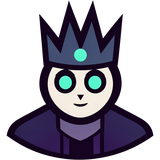
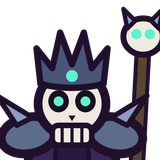
alfa a15a128: Nova: retrato del NecroLord con la cara de la serie (el resto se queda como esta

diff --git a/alfa/demos/karts/index.html b/alfa/demos/karts/index.html
@@ -8,7 +8,7 @@
 <meta name="description" content="Fans of Karts (prototipo jugable): carreras de karts en pixel art de consola portátil con los líderes de Fans of Rumble. Tres pistas, seis pilotos, objetos con mala idea y Microblizz, que ha comprado la carrera.">
 <link rel="icon" type="image/png" href="img/icon-192.png">
 <link rel="apple-touch-icon" href="img/icon-192.png">
-<script src="../../core/js/nucleo.js?v=0.6.0-a58.51187f6"></script>
+<script src="../../core/js/nucleo.js?v=0.6.0-a59.a15a128"></script>
 <script>NUCLEO.estilos('../../core/css/base.css', '../../core/css/menus.css', '../../core/css/menus-tienda.css', '../../core/css/menus-extra.css', 'css/tienda.css', 'css/pvp.css')</script>
 <link rel="stylesheet" href="https://fonts.googleapis.com/css2?family=Baloo+2:wght@600;700;800&family=Luckiest+Guy&display=swap">
 <style>

diff --git a/alfa/games/dark/index.html b/alfa/games/dark/index.html
@@ -12,7 +12,7 @@
 <link rel="stylesheet" href="https://fonts.googleapis.com/css2?family=Baloo+2:wght@600;700;800&family=Luckiest+Guy&family=Press+Start+2P&family=Pixelify+Sans:wght@400;600;700&display=swap">
 <link rel="stylesheet" href="css/dark.css?v=0.2.4">
 <!-- Prototipo: no usa NUCLEO (tiene su propia partida guardada). Carga de core el arte, la música, los efectos y las cifras del Rumble.
-     VERSIÓN para desplegar.py (que la busca así): nucleo.js?v=0.2.5-a58.51187f6' (aquí solo se anota; súbela junto al ?v= de los scripts). -->
+     VERSIÓN para desplegar.py (que la busca así): nucleo.js?v=0.2.5-a59.a15a128' (aquí solo se anota; súbela junto al ?v= de los scripts). -->
 </head>
 <body>
 <canvas id="cv" aria-label="Mazmorra"></canvas>

diff --git a/alfa/games/rumble/index.html b/alfa/games/rumble/index.html
@@ -16,7 +16,7 @@
 <link rel="preconnect" href="https://fonts.gstatic.com" crossorigin>
 <link rel="stylesheet" href="https://fonts.googleapis.com/css2?family=Baloo+2:wght@600;700;800&family=Luckiest+Guy&display=swap">
 <!-- core/js/nucleo.js carga lo común y el juego. LA VERSIÓN SE ESCRIBE SOLO AQUÍ, en su ?v= -->
-<script src="../../core/js/nucleo.js?v=0.9.135-a58.51187f6"></script>
+<script src="../../core/js/nucleo.js?v=0.9.135-a59.a15a128"></script>
 <script>NUCLEO.estilos('../../core/css/menus.css', 'css/estilos-partida.css', 'css/estilos-extra.css', 'css/arena.css', '../../core/css/biblioteca.css', 'css/facciones-y-jefes.css', '../../core/css/clasificacion.css', 'css/frases.css', 'css/mitica.css', 'css/paletas.css')</script>
 
 </head>

diff --git a/alfa/games/rouflage/index.html b/alfa/games/rouflage/index.html
@@ -10,7 +10,7 @@
 <link rel="preconnect" href="https://fonts.googleapis.com">
 <link rel="preconnect" href="https://fonts.gstatic.com" crossorigin>
 <link rel="stylesheet" href="https://fonts.googleapis.com/css2?family=Baloo+2:wght@600;700;800&family=Luckiest+Guy&display=swap">
-<script src="../../core/js/nucleo.js?v=0.2.10-a58.51187f6"></script>
+<script src="../../core/js/nucleo.js?v=0.2.10-a59.a15a128"></script>
 <script>NUCLEO.estilos('../../core/css/base.css', '../../core/css/menus.css', '../../core/css/menus-extra.css')</script>
 <link rel="stylesheet" href="estilo.css?v=0.2.9">
 <link rel="stylesheet" href="estilo-pvp.css?v=0.2.9">

diff --git a/alfa/games/ratkov/index.html b/alfa/games/ratkov/index.html
@@ -13,7 +13,7 @@
 <link rel="preconnect" href="https://fonts.gstatic.com" crossorigin>
 <link rel="stylesheet" href="https://fonts.googleapis.com/css2?family=VT323&family=Russo+One&display=swap">
 <script src="https://cdnjs.cloudflare.com/ajax/libs/three.js/r128/three.min.js"></script>
-<script src="../../core/js/nucleo.js?v=0.2.5-a58.51187f6"></script>
+<script src="../../core/js/nucleo.js?v=0.2.5-a59.a15a128"></script>
 <script>NUCLEO.estilos('../../core/css/base.css', '../../core/css/menus.css')</script>
 <link rel="stylesheet" href="estilo.css?v=0.2.3">
 <link rel="stylesheet" href="estilo-refugio.css?v=0.2.3">

diff --git a/alfa/games/survivors/index.html b/alfa/games/survivors/index.html
@@ -15,7 +15,7 @@
 <link rel="preconnect" href="https://fonts.gstatic.com" crossorigin>
 <link rel="stylesheet" href="https://fonts.googleapis.com/css2?family=Baloo+2:wght@600;700;800&family=Luckiest+Guy&display=swap">
 <!-- core/js/nucleo.js carga lo común y el juego. LA VERSIÓN SE ESCRIBE SOLO AQUÍ, en su ?v= -->
-<script src="../../core/js/nucleo.js?v=0.1.48-a58.51187f6"></script>
+<script src="../../core/js/nucleo.js?v=0.1.48-a59.a15a128"></script>
 <script>NUCLEO.estilos('../../core/css/base.css', '../../core/css/menus.css', 'css/survivors.css', '../../core/css/biblioteca.css')</script>
 </head>
 <body>

diff --git a/alfa/games/td/index.html b/alfa/games/td/index.html
@@ -15,7 +15,7 @@
 <link rel="preconnect" href="https://fonts.gstatic.com" crossorigin>
 <link rel="stylesheet" href="https://fonts.googleapis.com/css2?family=Baloo+2:wght@600;700;800&family=Luckiest+Guy&display=swap">
 <!-- core/js/nucleo.js carga lo común y el juego. LA VERSIÓN SE ESCRIBE SOLO AQUÍ, en su ?v= -->
-<script src="../../core/js/nucleo.js?v=0.13.64-a58.51187f6"></script>
+<script src="../../core/js/nucleo.js?v=0.13.64-a59.a15a128"></script>
 <script>NUCLEO.estilos('../../core/css/base.css', 'css/td.css', '../../core/css/menus.css', '../../core/css/biblioteca.css')</script>
 </head>
 <body>

diff --git a/alfa/games/nova/index.html b/alfa/games/nova/index.html
@@ -15,7 +15,7 @@
 <link rel="preconnect" href="https://fonts.gstatic.com" crossorigin>
 <link rel="stylesheet" href="https://fonts.googleapis.com/css2?family=Baloo+2:wght@600;700;800&family=Luckiest+Guy&display=swap">
 <!-- core/js/nucleo.js carga lo común y el juego. LA VERSIÓN SE ESCRIBE SOLO AQUÍ, en su ?v= -->
-<script src="../../core/js/nucleo.js?v=0.2.0-a58.51187f6"></script>
+<script src="../../core/js/nucleo.js?v=0.2.0-a59.a15a128"></script>
 <script>NUCLEO.estilos('../../core/css/base.css', '../../core/css/menus.css', 'css/nova.css')</script>
 </head>
 <body>

diff --git a/alfa/games/skate/index.html b/alfa/games/skate/index.html
@@ -9,7 +9,7 @@
 <link rel="preconnect" href="https://fonts.googleapis.com">
 <link rel="preconnect" href="https://fonts.gstatic.com" crossorigin>
 <link rel="stylesheet" href="https://fonts.googleapis.com/css2?family=Baloo+2:wght@600;700;800&family=Luckiest+Guy&display=swap">
-<script src="../../core/js/nucleo.js?v=0.1.25-a58.51187f6"></script>
+<script src="../../core/js/nucleo.js?v=0.1.25-a59.a15a128"></script>
 <script>NUCLEO.estilos('../../core/css/base.css', '../../core/css/menus.css', 'css/skate.css', 'css/opciones.css')</script>
 </head>
 <body>

diff --git a/alfa/games/crush/index.html b/alfa/games/crush/index.html
@@ -10,7 +10,7 @@
 <link rel="preconnect" href="https://fonts.googleapis.com">
 <link rel="preconnect" href="https://fonts.gstatic.com" crossorigin>
 <link rel="stylesheet" href="https://fonts.googleapis.com/css2?family=Baloo+2:wght@600;700;800&family=Luckiest+Guy&display=swap">
-<script src="../../core/js/nucleo.js?v=0.1.16-a58.51187f6"></script>
+<script src="../../core/js/nucleo.js?v=0.1.16-a59.a15a128"></script>
 <script>NUCLEO.estilos('../../core/css/base.css', '../../core/css/menus.css', 'css/crush.css')</script>
 </head>
 <body>

diff --git a/alfa/games/island/index.html b/alfa/games/island/index.html
@@ -9,7 +9,7 @@
 <link rel="preconnect" href="https://fonts.googleapis.com">
 <link rel="preconnect" href="https://fonts.gstatic.com" crossorigin>
 <link rel="stylesheet" href="https://fonts.googleapis.com/css2?family=Baloo+2:wght@600;700;800&family=Luckiest+Guy&display=swap">
-<script src="../../core/js/nucleo.js?v=0.3.3-a58.51187f6"></script>
+<script src="../../core/js/nucleo.js?v=0.3.3-a59.a15a128"></script>
 <script>NUCLEO.estilos('../../core/css/base.css', '../../core/css/menus.css', 'css/island.css')</script>
 </head>
 <body>

diff --git a/alfa/games/tacticas/index.html b/alfa/games/tacticas/index.html
@@ -11,7 +11,7 @@
 <link rel="preconnect" href="https://fonts.googleapis.com">
 <link rel="preconnect" href="https://fonts.gstatic.com" crossorigin>
 <link rel="stylesheet" href="https://fonts.googleapis.com/css2?family=Baloo+2:wght@600;700;800&family=Luckiest+Guy&display=swap">
-<script src="../../core/js/nucleo.js?v=0.1.32-a58.51187f6"></script>
+<script src="../../core/js/nucleo.js?v=0.1.32-a59.a15a128"></script>
 <script>NUCLEO.estilos('css/tacticas.css', 'css/menus.css')</script>
 </head>
 <body>
